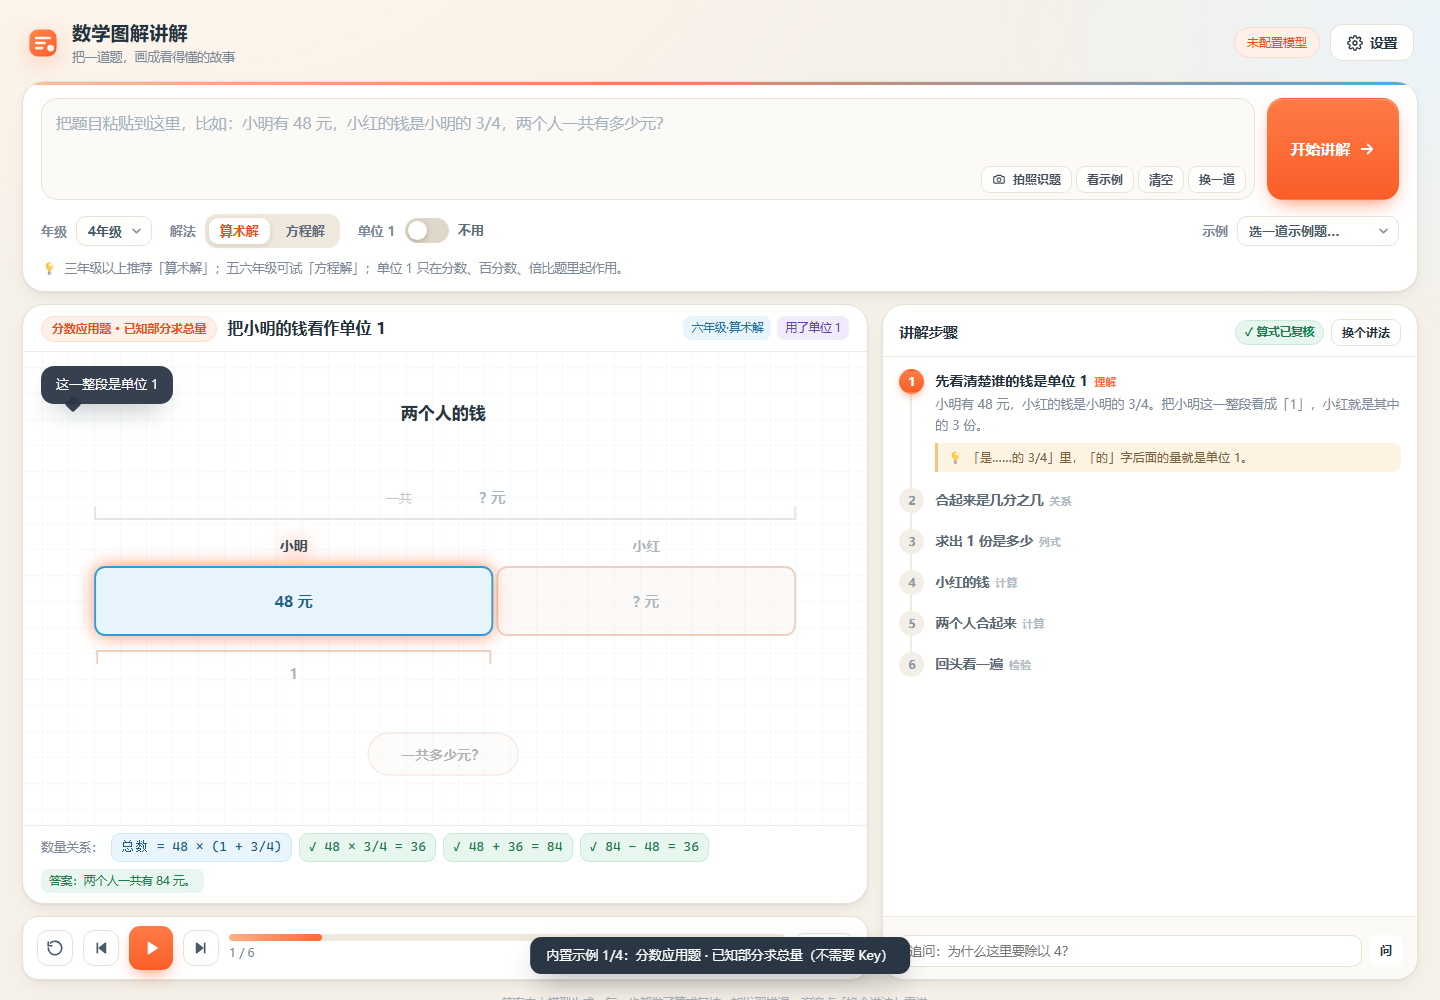
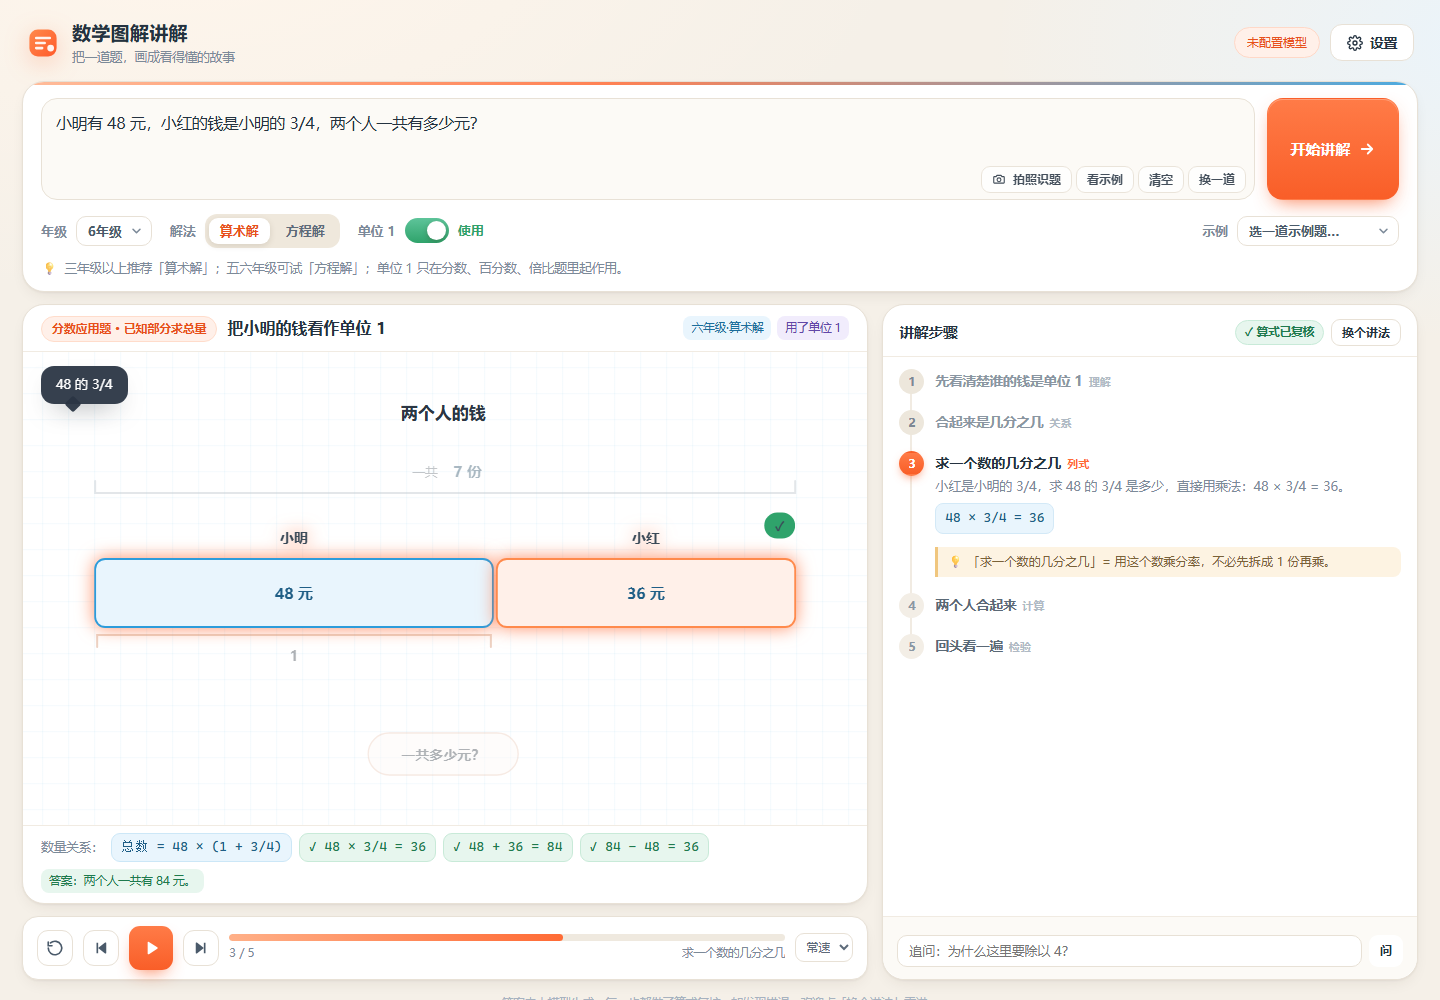
feat: 分数题按分数直接算，不再走"先除后乘"
已知部分求整体写成 480 ÷ 5 × 8 虽然答案对，却把"量率对应"绕过去了，
孩子只记住又一条口诀，题型一变就不会。六年级标准是 480 ÷ 5/8。

- 规则 14：分数/百分数按分数本身算，不许拆成整数再拼回去；
  不许过早化小数；只有真·整数份题目才用份数法
- 规则 15：plan.relation 必须是成立的等式，不许写成看不出顺序的连串
- 单位 1 段落补对照：480 ÷ 5/8（✓） vs 480 ÷ 5 × 8（✗）
- 范例 A 与内置示例 1 改写：48 × 3/4 = 36 直接乘，删掉"先求 1 份"
- 删掉编辑时产生的一条重复步骤（"两个人合起来"出现两次）
- 修复规则文本里的反引号截断模板字符串导致的构建失败
- 自测 72 项

diff --git a/src/js/45-demo.js b/src/js/45-demo.js
@@ -41,20 +41,14 @@
         ops: [{ op: 'focus', ids: ['a', 'b'], text: '合起来 7 份' }, { op: 'set', id: 'total', text: '7 份' }]
       },
       {
-        phase: '列式', title: '求出 1 份是多少',
-        text: '小明 48 元正好是 4 份，那 1 份就是 48 ÷ 4 = 12 元。',
-        math: '48 ÷ 4 = 12', why: '把 48 元平均分成 4 份，每份就是 12 元。',
-        ops: [{ op: 'focus', ids: ['a'], text: '4 份 = 48 元' }, { op: 'set', id: 'b', text: '3 份' }]
-      },
-      {
-        phase: '计算', title: '小红的钱',
-        text: '小红是 3 份，12 × 3 = 36 元，也就是 48 × 3/4 = 36 元。',
-        math: '48 × 3/4 = 36', why: '求一个数的几分之几，用乘法。',
-        ops: [{ op: 'set', id: 'b', text: '36 元' }, { op: 'mark', id: 'b', text: '✓' }]
+        phase: '列式', title: '求一个数的几分之几',
+        text: '小红是小明的 3/4，求 48 的 3/4 是多少，直接用乘法：48 × 3/4 = 36。',
+        math: '48 × 3/4 = 36', why: '「求一个数的几分之几」= 用这个数乘分率，不必先拆成 1 份再乘。',
+        ops: [{ op: 'focus', ids: ['b'], text: '48 的 3/4' }, { op: 'set', id: 'b', text: '36 元' }, { op: 'mark', id: 'b', text: '✓' }]
       },
       {
         phase: '计算', title: '两个人合起来',
-        text: '48 + 36 = 84，两个人一共 84 元。',
+        text: '小明 48 元，小红 36 元，一共 48 + 36 = 84 元。',
         math: '48 + 36 = 84', why: '也可以直接用 48 × 7/4 = 84，一步算出总数。',
         ops: [{ op: 'set', id: 'total', text: '84 元' }, { op: 'pulse', ids: ['total'] }]
       },
